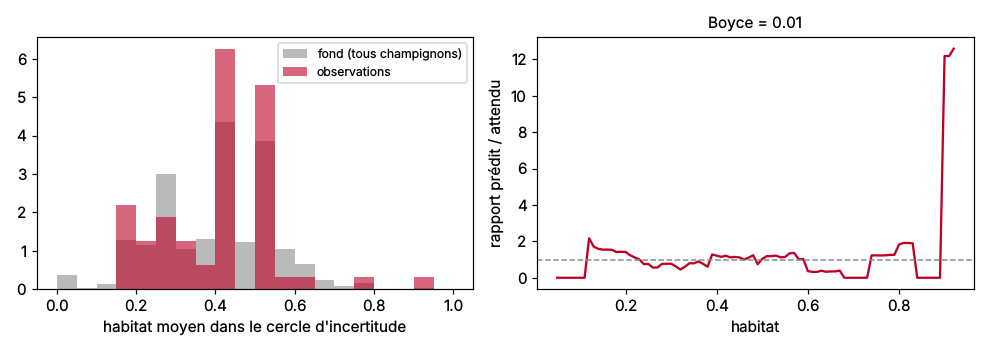
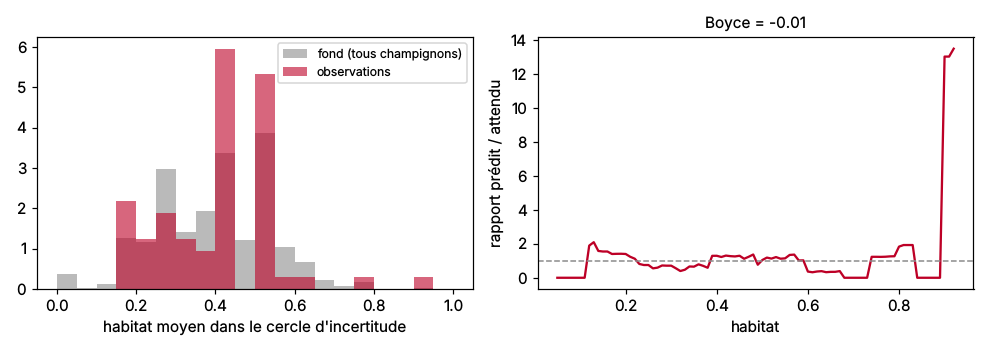
Rapports de calibrage recalculés avec les règles ajustées ; test des graduations
Claude-Session: https://claude.ai/code/session_01Eaquhd3JkcNmrCR9BvnS6J

diff --git a/reports/calibration/trompette/rapport.md b/reports/calibration/trompette/rapport.md
@@ -37,8 +37,8 @@ L'habitat est moyenné dans le cercle d'incertitude de chaque observation, puis 
 
 ![Habitat](habitat.png)
 
-- AUC observations / fond : 0.51 (faible)
-- Indice de Boyce continu : 0.01 (faible)
+- AUC observations / fond : 0.52 (faible)
+- Indice de Boyce continu : -0.01 (faible)
 
 ### Composition : essences
 
@@ -51,7 +51,7 @@ Part moyenne de chaque classe dans les cercles (observations et fond), et valeur
 | chataignier | 0.50 | 0.08 | 0.08 | 1.00 |
 | mixte_feuillus | 0.90 | 0.07 | 0.07 | 0.88 |
 | mixte_coniferes | 0.60 | 0.04 | 0.06 | 0.64 |
-| chenes_decidus | 0.80 | 0.02 | 0.05 | 0.44 |
+| chenes_decidus | 0.50 | 0.02 | 0.05 | 0.44 |
 | foret_ouverte | 0.30 | 0.02 | 0.02 | 0.73 |
 | hetre | 1.00 | 0.03 | 0.02 | 1.15 |
 | autres_feuillus | 0.70 | 0.03 | 0.02 | 1.18 |
@@ -70,17 +70,16 @@ Score M calculé avec la météo historique (Open-Meteo, ERA5-Land et ERA5), à 
 ![Météo](meteo.png)
 
 - AUC temporelle : 0.64 (correct)
-- Sous-scores moyens le jour observé : pluie_15j 0.66, tmoy_7j 0.91, saison 0.87, gel 0.96
+- Sous-scores moyens le jour observé : pluie_15j 0.81, tmoy_7j 0.91, saison 0.87, gel 0.96
 
 Valeurs des indicateurs les jours d'observation (déciles 10 et 90, médiane), comparées aux seuils du trapèze de la règle :
 
 |  | seuils_regle | p10 | mediane | p90 | sous_score_moyen | jours_a_zero_pct |
 |---|---|---|---|---|---|---|
-| pluie_15j | 25 / 60 / 200 / 350 | 24.16 | 54.40 | 107.55 | 0.66 | 10.94 |
+| pluie_15j | 25 / 40 / 200 / 350 | 24.16 | 54.40 | 107.55 | 0.81 | 10.94 |
 | tmoy_7j | 5 / 9 / 17 / 22 | 8.37 | 13.39 | 17.34 | 0.91 | 3.12 |
 
 ## Règles à revoir
 
 - Phénologie : 11 % des observations hors saison du modèle (janv., avr., juil., déc.).
-- Habitat : AUC 0.51, le modèle distingue mal les zones observées du fond.
-- Essence « chenes_decidus » : sous-représentée près des observations (× 0.4) mais notée 0.8.
+- Habitat : AUC 0.52, le modèle distingue mal les zones observées du fond.

diff --git a/reports/calibration/pied_de_mouton/rapport.md b/reports/calibration/pied_de_mouton/rapport.md
@@ -29,7 +29,7 @@ Requête GBIF : https://api.gbif.org/v1/occurrence/search?hasCoordinate=true&has
 
 ![Phénologie](phenologie.png)
 
-Observations hors de la fenêtre saisonnière du modèle : **12 %**.
+Observations hors de la fenêtre saisonnière du modèle : **9 %**.
 
 ## Habitat
 
@@ -69,18 +69,17 @@ Score M calculé avec la météo historique (Open-Meteo, ERA5-Land et ERA5), à 
 
 ![Météo](meteo.png)
 
-- AUC temporelle : 0.57 (faible)
-- Sous-scores moyens le jour observé : pluie_15j 0.64, tmoy_7j 0.80, saison 0.82, gel 0.98
+- AUC temporelle : 0.59 (faible)
+- Sous-scores moyens le jour observé : pluie_15j 0.73, tmoy_7j 0.80, saison 0.92, gel 0.98
 
 Valeurs des indicateurs les jours d'observation (déciles 10 et 90, médiane), comparées aux seuils du trapèze de la règle :
 
 |  | seuils_regle | p10 | mediane | p90 | sous_score_moyen | jours_a_zero_pct |
 |---|---|---|---|---|---|---|
-| pluie_15j | 20 / 50 / 200 / 350 | 18.00 | 47.60 | 93.80 | 0.64 | 13.73 |
+| pluie_15j | 20 / 35 / 200 / 350 | 18.00 | 47.60 | 93.80 | 0.73 | 13.73 |
 | tmoy_7j | 2 / 6 / 15 / 20 | 8.37 | 13.16 | 18.98 | 0.80 | 5.88 |
 
 ## Règles à revoir
 
-- Phénologie : 12 % des observations hors saison du modèle (févr., avr., juin, juil.).
 - Habitat : AUC 0.54, le modèle distingue mal les zones observées du fond.
-- Météo : AUC temporelle 0.57, les jours observés ne sont pas nettement mieux notés que les autres jours.
+- Météo : AUC temporelle 0.59, les jours observés ne sont pas nettement mieux notés que les autres jours.

diff --git a/reports/calibration/README.md b/reports/calibration/README.md
@@ -6,10 +6,10 @@ Généré le 23/10/2026.
 
 | Espèce | Obs. | Datées | Localisées | Hors saison | AUC habitat | Boyce | AUC météo | Alertes |
 |---|---:|---:|---:|---:|---:|---:|---:|---:|
-| [Cèpe](cepe/rapport.md) | 178 | 178 | 173 | 3 % | 0.53 | 0.34 | 0.59 | 2 |
-| [Girolle](girolle/rapport.md) | 83 | 83 | 79 | 4 % | 0.55 | 0.08 | 0.62 | 1 |
+| [Cèpe](cepe/rapport.md) | 178 | 178 | 173 | 3 % | 0.53 | 0.34 | 0.60 | 1 |
+| [Girolle](girolle/rapport.md) | 83 | 83 | 79 | 4 % | 0.55 | 0.08 | 0.61 | 1 |
 | [Morille](morille/rapport.md) | 27 | 27 | 24 | 0 % | 0.47 | -0.22 | 0.66 | 1 |
-| [Pied-de-mouton](pied_de_mouton/rapport.md) | 56 | 56 | 51 | 12 % | 0.54 | 0.50 | 0.57 | 3 |
-| [Trompette de la mort](trompette/rapport.md) | 65 | 65 | 64 | 11 % | 0.51 | 0.01 | 0.64 | 3 |
+| [Pied-de-mouton](pied_de_mouton/rapport.md) | 56 | 56 | 51 | 9 % | 0.54 | 0.50 | 0.59 | 2 |
+| [Trompette de la mort](trompette/rapport.md) | 65 | 65 | 64 | 11 % | 0.52 | -0.01 | 0.64 | 2 |
 
 Seuils d'alerte : effectif < 20 (indicatif), plus de 10 % d'observations hors saison, AUC < 0,6, classe sur-représentée × 1,5 mais notée ≤ 0,3 ou sous-représentée × 0,5 mais notée ≥ 0,8.

diff --git a/reports/calibration/cepe/rapport.md b/reports/calibration/cepe/rapport.md
@@ -69,18 +69,17 @@ Score M calculé avec la météo historique (Open-Meteo, ERA5-Land et ERA5), à 
 
 ![Météo](meteo.png)
 
-- AUC temporelle : 0.59 (faible)
-- Sous-scores moyens le jour observé : pluie_15j 0.66, tmoy_7j 0.86, amplitude_7j 0.97, saison 0.95, gel 0.98
+- AUC temporelle : 0.60 (correct)
+- Sous-scores moyens le jour observé : pluie_15j 0.79, tmoy_7j 0.86, amplitude_7j 0.97, saison 0.95, gel 0.98
 
 Valeurs des indicateurs les jours d'observation (déciles 10 et 90, médiane), comparées aux seuils du trapèze de la règle :
 
 |  | seuils_regle | p10 | mediane | p90 | sous_score_moyen | jours_a_zero_pct |
 |---|---|---|---|---|---|---|
-| pluie_15j | 20 / 50 / 150 / 300 | 18.40 | 43.60 | 89.16 | 0.66 | 11.56 |
+| pluie_15j | 20 / 35 / 150 / 300 | 18.40 | 43.60 | 89.16 | 0.79 | 11.56 |
 | tmoy_7j | 8 / 12 / 20 / 25 | 9.74 | 14.60 | 18.53 | 0.86 | 4.05 |
 | amplitude_7j | 4 / 8 / 14 / 20 | 6.94 | 9.50 | 11.10 | 0.97 | 0.00 |
 
 ## Règles à revoir
 
 - Habitat : AUC 0.53, le modèle distingue mal les zones observées du fond.
-- Météo : AUC temporelle 0.59, les jours observés ne sont pas nettement mieux notés que les autres jours.

diff --git a/reports/calibration/girolle/rapport.md b/reports/calibration/girolle/rapport.md
@@ -69,14 +69,14 @@ Score M calculé avec la météo historique (Open-Meteo, ERA5-Land et ERA5), à 
 
 ![Météo](meteo.png)
 
-- AUC temporelle : 0.62 (correct)
-- Sous-scores moyens le jour observé : pluie_15j 0.83, tmoy_7j 0.87, saison 0.97, gel 0.98
+- AUC temporelle : 0.61 (correct)
+- Sous-scores moyens le jour observé : pluie_15j 0.88, tmoy_7j 0.87, saison 0.97, gel 0.98
 
 Valeurs des indicateurs les jours d'observation (déciles 10 et 90, médiane), comparées aux seuils du trapèze de la règle :
 
 |  | seuils_regle | p10 | mediane | p90 | sous_score_moyen | jours_a_zero_pct |
 |---|---|---|---|---|---|---|
-| pluie_15j | 15 / 40 / 150 / 300 | 20.06 | 50.40 | 111.14 | 0.83 | 5.06 |
+| pluie_15j | 15 / 30 / 150 / 300 | 20.06 | 50.40 | 111.14 | 0.88 | 5.06 |
 | tmoy_7j | 9 / 13 / 22 / 27 | 11.08 | 14.84 | 18.20 | 0.87 | 5.06 |
 
 ## Règles à revoir
